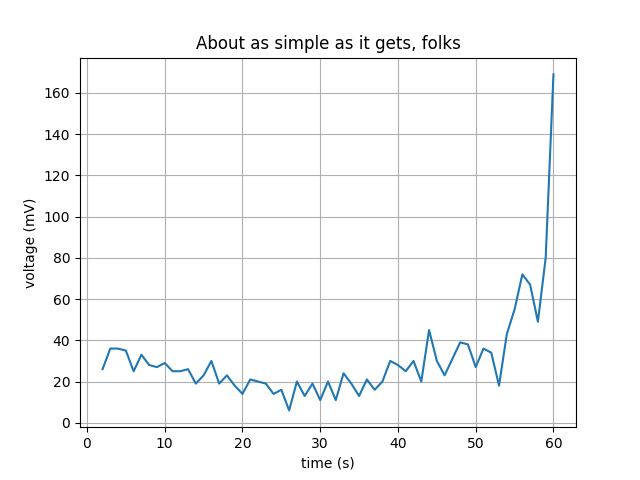
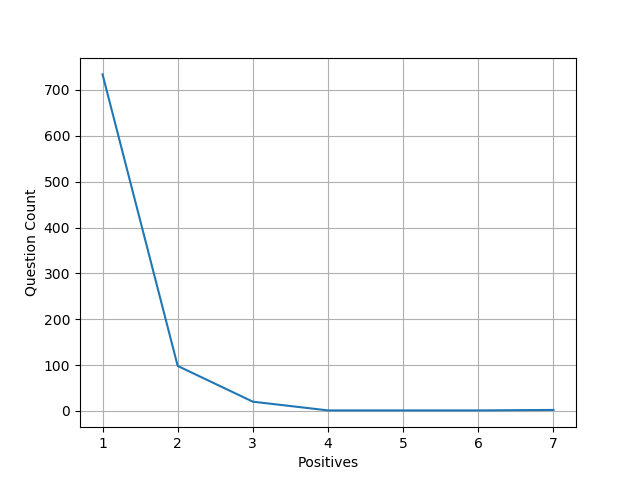
ver3

diff --git a/src/SentenceMatchDecoder.py b/src/SentenceMatchDecoder.py
@@ -203,6 +203,32 @@ def show_weights(dataStream, valid_graph, sess, outpath=None,
 if __name__ == '__main__':
 
     epoch = [1, 2, 3, 4, 5, 6, 7, 8, 9, 10]
+
+    pos_trec = [352.0, 191.0, 130.0, 95.0, 60.0, 45.0, 32.0, 32.0, 33.0, 18.0, 20.0, 23.0, 13.0, 15.0, 10.0, 13.0, 4.0, 10.0, 9.0,
+     4.0, 6.0, 3.0, 5.0, 2.0, 6.0, 1.0, 4.0, 0.0, 1.0, 0.0, 1.0, 0.0, 3.0, 3.0, 2.0, 3.0, 1.0, 2.0, 0.0, 3.0, 1.0, 1.0,
+     1.0, 0.0, 0.0, 0.0, 0.0, 1.0, 0.0, 0.0, 1.0]
+
+    pos_wiki = [734.0, 98.0, 20.0, 1.0, 1.0, 1.0, 2.0]
+
+    map_listpl = [4759762.387, 4751877.19, 4749028.117, 4742046.493, 4736566.713, 4731218.37, 4730733.15, 4725699.15, 4768785.58, 4567046.867]
+    map_listmle = [4754315.949, 4766392.034, 4697314.583, 4730979.343, 4691711.086, 4668025.715, 4680640.321, 4652065.742, 4652879.819, 4533239.929]
+
+    # epoch = []
+    # for i in range (len(pos_trec)):
+    #     epoch.append(i + 1)
+    # while len(pos_wiki) < len(pos_trec):
+    #     pos_wiki.append(0)
+    # plt.plot (epoch, pos_trec, label = 'QASent', marker = None, color = 'r', linestyle=None)
+    # plt.plot (epoch, pos_wiki, label = 'WikiQA', marker = None, color = 'b', linestyle='-.')
+    #
+    # plt.xlabel('Positive Answers Count')
+    # plt.ylabel('Question Count')
+    # plt.legend()
+    # plt.show()
+
+
+    #TREC:
+
     # map_listnet =[0.730, 0.740, 0.780, 0.784, 0.797, 0.802, 0.818, 0.812, 0.821, 0.819]
     # map_listmle =[0.704, 0.721, 0.757, 0.664, 0.633, 0.660, 0.622, 0.648, 0.616, 0.630]
     # map_zero = [0.740, 0.751, 0.792, 0.795, 0.801, 0.817, 0.824, 0.842, 0.855, 0.840]
@@ -225,17 +251,28 @@ if __name__ == '__main__':
     # map_listmle = [0.668, 0.682, 0.681, 0.69, 0.657, 0.619, 0.617, 0.614, 0.584, 0.587]
     #
     #
-    # plt.plot (epoch, map_lambmle, label = 'LambMLE', marker = 's', color = 'r', linestyle='-')
-    # plt.plot (epoch, map_zero, label = 'ZeroListNet', marker = 's', color = 'b', linestyle='-')
-    # plt.plot (epoch, map_listnet, label = 'ListNet', marker = 's', color = 'g', linestyle='-')
-    # plt.plot (epoch, map_pointwise, label = 'Pointwise', marker = 's', color = 'p', linestyle='-')
-    # plt.plot (epoch, map_listpl, label = 'ListPL', marker = 's', color = 'm', linestyle='-')
-    # plt.plot (epoch, map_listmle, label = 'ListMLE', marker = 's', color = 'y', linestyle='-')
+
+    #WIKI:
+    map_lambmle = [0.73, 0.794, 0.856, 0.907, 0.945, 0.963, 0.965, 0.979, 0.985, 0.986]
+                  #[0.729, 0.784, 0.851, 0.905, 0.949, 0.964, 0.966, 0.98, 0.988, 0.986]
+    map_zero = [0.720, 0.786, 0.855, 0.899, 0.932, 0.951, 0.967, 0.973, 0.981, 0.982]
+               #[0.735, 0.808, 0.863, 0.916, 0.942, 0.954, 0.974, 0.978, 0.984, 0.98]
+    map_listnet = [0.705, 0.756, 0.823, 0.878, 0.91, 0.936, 0.952, 0.966, 0.968, 0.978]
+    map_pointwise = [0.671, 0.715, 0.762, 0.813, 0.837, 0.866, 0.895, 0.921, 0.935, 0.944]
+    map_listpl = [0.587, 0.604, 0.62, 0.642, 0.673, 0.692, 0.699, 0.712, 0.728, 0.754]
+    map_listmle = [0.625, 0.63, 0.664, 0.651, 0.677, 0.681, 0.663, 0.687, 0.668, 0.698]
+
+    plt.plot (epoch, map_lambmle, label = 'LambMLE', marker = 's', color = 'r', linestyle='-')
+    plt.plot (epoch, map_zero, label = 'ZeroListNet', marker = 's', color = 'b', linestyle='-')
+    plt.plot (epoch, map_listnet, label = 'ListNet', marker = 's', color = 'g', linestyle='-')
+    #plt.plot (epoch, map_pointwise, label = 'Pointwise', marker = 's', color = 'p', linestyle='-')
+    plt.plot (epoch, map_listpl, label = 'ListPL', marker = 's', color = 'm', linestyle='-')
+    plt.plot (epoch, map_listmle, label = 'ListMLE', marker = 's', color = 'y', linestyle='-')
     #
-    # plt.xlabel('epoch')
-    # plt.ylabel('MAP')
-    # plt.legend()
-    # plt.show()
+    plt.xlabel('epoch')
+    plt.ylabel('MAP')
+    plt.legend()
+    plt.show()
 
     parser = argparse.ArgumentParser()
     #parser.add_argument('--model_prefix', type=str, required=True, help='Prefix to the models.')
@@ -312,9 +349,17 @@ if __name__ == '__main__':
     #print('char_vocab: {}'.format(char_vocab.word_vecs.shape))
 
     print('Build SentenceMatchDataStream ... ')
+
+    devDataStream = SentenceMatchTrainer.SentenceMatchDataStream("../dev.txt", word_vocab=word_vocab, char_vocab=char_vocab,
+                                                  POS_vocab=POS_vocab, NER_vocab=NER_vocab, label_vocab=label_vocab,
+                                                  batch_size=10, isShuffle=False, isLoop=True, isSort=True,
+                                                  max_char_per_word=20, max_sent_length=100,
+                                                  is_as=True, is_word_overlap=False,
+                                                  is_lemma_overlap= False)
+
     testDataStream = SentenceMatchTrainer.SentenceMatchDataStream(in_path, word_vocab=word_vocab, char_vocab=char_vocab,
                                                   POS_vocab=POS_vocab, NER_vocab=NER_vocab, label_vocab=label_vocab,
-                                                  batch_size=1, isShuffle=False, isLoop=True, isSort=True,
+                                                  batch_size=10, isShuffle=False, isLoop=True, isSort=True,
                                                   max_char_per_word=20, max_sent_length=100,
                                                   is_as=True, is_word_overlap=False,
                                                   is_lemma_overlap= False)
@@ -391,8 +436,37 @@ if __name__ == '__main__':
 
 
 
-        show_weights(testDataStream, valid_graph, sess, outpath='', label_vocab=label_vocab,mode='',
-                                                 char_vocab=char_vocab, POS_vocab=POS_vocab, NER_vocab=NER_vocab
-                     ,show_attention=True)
+        # show_weights(testDataStream, valid_graph, sess, outpath='', label_vocab=label_vocab,mode='',
+        #                                          char_vocab=char_vocab, POS_vocab=POS_vocab, NER_vocab=NER_vocab
+        #              ,show_attention=True)
 
+        #95
+        for i in range (95, 96):
+            char_vocab = Vocab(path_prefix + ".char_vocab", fileformat='txt2')
+            devDataStream = SentenceMatchTrainer.SentenceMatchDataStream("../dev.txt", word_vocab=word_vocab,
+                                                                         char_vocab=char_vocab,
+                                                                         POS_vocab=POS_vocab, NER_vocab=NER_vocab,
+                                                                         label_vocab=label_vocab,
+                                                                         batch_size=i, isShuffle=False, isLoop=True,
+                                                                         isSort=True,
+                                                                         max_char_per_word=20, max_sent_length=100,
+                                                                         is_as=True, is_word_overlap=False,
+                                                                         is_lemma_overlap=False)
 
+            testDataStream = SentenceMatchTrainer.SentenceMatchDataStream(in_path, word_vocab=word_vocab,
+                                                                          char_vocab=char_vocab,
+                                                                          POS_vocab=POS_vocab, NER_vocab=NER_vocab,
+                                                                          label_vocab=label_vocab,
+                                                                          batch_size=i, isShuffle=False, isLoop=True,
+                                                                          isSort=True,
+                                                                          max_char_per_word=20, max_sent_length=100,
+                                                                          is_as=True, is_word_overlap=False,
+                                                                          is_lemma_overlap=False)
+            char_vocab = None
+            my_map, my_mrr = SentenceMatchTrainer.evaluate(devDataStream, valid_graph, sess, char_vocab=char_vocab,
+                              POS_vocab=POS_vocab, NER_vocab=NER_vocab, label_vocab=label_vocab)
+            print ("*****************************************")
+            print (my_map, my_mrr)
+            my_map, my_mrr = SentenceMatchTrainer.evaluate(testDataStream, valid_graph, sess, char_vocab=char_vocab,
+                              POS_vocab=POS_vocab, NER_vocab=NER_vocab, label_vocab=label_vocab)
+            print (my_map, my_mrr)

diff --git a/src/SentenceMatchTrainer.py b/src/SentenceMatchTrainer.py
@@ -386,7 +386,6 @@ def Generate_random_initialization(cnf):
         FLAGS.with_highway = True
     else:
         return False
-
     # if cnf <= 3:
     #     FLAGS.pos_avg = True
     #     FLAGS.prediction_mode = 'list_wise'
@@ -464,7 +463,8 @@ def Get_Next_box_size (index):
     #az inja be bad listnet dorost shode
     #list = [100, 100, 100] #loss1- [point-wise, list_wise, list_wise] sadegh
     #az inja be bad sampling = False beshe
-    list = [100, 100, 100, 100, 100]  #glove5- [(glove5-0)pos_avg = True, (glove51)kl, pos_avg=True] sampling = False wiki dbrg
+    list = [100, 100, 100, 100, 100]
+    #glove5- [(glove5-0)pos_avg = True, (glove51)kl, pos_avg=True] sampling = False wiki dbrg
                             #mle1- [poset, list_net(0-1), real_list_net, margine=1 neg, margin=1 pos] wiki [s,s,s,s,d]
                             #mle2- [poset, list_net(0-1), real_list_net] [s,s,d] trec
 				#mle3- [poset, list_net(0-1) [d,d]
@@ -480,7 +480,7 @@ def Get_Next_box_size (index):
                 #fabl2- [just word embeding]
                 #fabl3- [no final highway]
                 #fabl4- [no mathching, sub, lstm] store_best = False for wiki and trec
-                # epoch5- [pointwise,,,listmle] trec wiki(20 runs)	#epoch55-[pointwise] wiki (100 runs)
+                #epoch5- [pointwise,,,listmle] trec wiki(20 runs)	#epoch55-[pointwise] wiki (100 runs)
 
                 #train1- [poset, zero, listnet, pointwise] 1-3,4-6,7-9,10-12 wiki trec
                 #train2- [mle, pl] wiki trec
@@ -489,7 +489,7 @@ def Get_Next_box_size (index):
                 # tt1- [poset, zero, listnet] 1-5, 6-10, 11-15
                 #my_abl1 [cnn, bilinear, lstm]
                 # tt2- [poset, zero, listnet] 1-5, 6-10, 11-15
-                # tt3- [] 1-3, 4-6, ...
+                # tt3- [] 1-3, 4-6, ... poset, zero , net, point, mle, pl
     FLAGS.flag_shuffle = True
 
     if  (index > FLAGS.end_batch):
@@ -498,8 +498,6 @@ def Get_Next_box_size (index):
     FLAGS.sample_percent = list [index]
     FLAGS.margin = 0
 
-
-
     FLAGS.test_train = False
 
     if index == 0:
@@ -507,9 +505,10 @@ def Get_Next_box_size (index):
         # FLAGS.pos_avg = True
         # FLAGS.prediction_mode = 'point_wise'
         FLAGS.word_vec_path = "../data/glove/my_glove.840B.300d.txt"
-        FLAGS.pos_avg = True
-        FLAGS.prediction_mode = 'list_wise'
-        FLAGS.new_list_wise = True
+        #FLAGS.pos_avg = True
+        FLAGS.prediction_mode = 'list_mle'
+        FLAGS.flag_shuffle = False
+        #FLAGS.new_list_wise = True
         #FLAGS.topk = 30
     if index == 1:
         FLAGS.word_vec_path = "../data/glove/my_glove.840B.300d.txt"
@@ -926,11 +925,8 @@ def main(_):
 
 
 if __name__ == '__main__':
-
-
-
     parser = argparse.ArgumentParser()
-    parser.add_argument('--is_trec',default=True, help='is trec or wiki?')
+    parser.add_argument('--is_trec',default=False, help='is trec or wiki?')
     FLAGS, unparsed = parser.parse_known_args()
     is_trec = FLAGS.is_trec
     if is_trec == 'True' or is_trec == True:

diff --git a/src/SentenceMatchDataStream.py b/src/SentenceMatchDataStream.py
@@ -256,10 +256,14 @@ def wikiQaGenerate(filename, label_vocab, word_vocab, char_vocab, max_sent_lengt
     q_type = {}
     q_type_pos = {}
     q_type_len = {}
+    good_len_list = []
+    good_len_max = 0
     for item in question_dic.values():
-
         good_answer = [item["answer"][i] for i in range(len(item["question"])) if item["label"][i] == 1]
         good_length = len(good_answer)
+        good_len_list.append(good_length)
+        if good_length > good_len_max:
+            good_len_max = good_length
         first_word = item ["question"][0].split()[0]
         q_type.setdefault(first_word,0)
         q_type_pos.setdefault(first_word, 0)
@@ -308,17 +312,23 @@ def wikiQaGenerate(filename, label_vocab, word_vocab, char_vocab, max_sent_lengt
         batches = make_batches_as(instances, batch_size, max_answer_size, is_training, equal_box_per_batch)
     else:
         batches = make_batches(pairs_count,batch_size)
-    show_plot = False
+    # show_plot = True
     # if show_plot == True:
-    #     sum_len = np.zeros((max_answer_size-1))
-    #     for x in instances:
-    #         sum_len [len (x[1])-2] += 1
-    #     x = np.arange(2, max_answer_size+1)
+    #     import matplotlib
+    #     import matplotlib.pyplot as plt
+    #     #sum_len = np.zeros((max_answer_size-1))
+    #     sum_len = np.zeros((good_len_max))
+    #     for x in good_len_list:
+    #         #sum_len [len (x[1])-2] += 1
+    #         sum_len[x - 1] += 1
+    #     #x = np.arange(2, max_answer_size+1)
+    #     print (list(sum_len))
+    #     x = np.arange(1, good_len_max + 1)
     #     fig, ax = plt.subplots()
     #     ax.plot(x, sum_len)
     #
-    #     ax.set(xlabel='time (s)', ylabel='voltage (mV)',
-    #            title='About as simple as it gets, folks')
+    #     ax.set(xlabel='Positives', ylabel='Question Count')
+    #           # ,title='About as simple as it gets, folks')
     #     ax.grid()
     #
     #     fig.savefig("test.png")

diff --git a/src/SentenceMatchModelGraph.py b/src/SentenceMatchModelGraph.py
@@ -383,11 +383,14 @@ class SentenceMatchModelGraph(object):
                             #logits = tf.expand_dims(logits, 0)
                             neg_exp = tf.multiply(neg_mask, tf.exp(logits)) # [a, a] [logits : [1, a]]
                             pos_exp = tf.exp(logits) #[1, a]
-                            neg_exp_sum = tf.reduce_sum(neg_exp, 1, keep_dims=True) #[1,a]
-                            fi = tf.log(1 + tf.divide(neg_exp_sum, pos_exp)) #[1,a]
+                            pos_exp = tf.reshape(pos_exp, [-1]) #[a]
+                            neg_exp_sum = tf.reduce_sum(neg_exp, 1) #[1,a] #[a, 1] #a
+                            print (neg_exp_sum)
+                            fi = tf.log(1 + tf.divide(neg_exp_sum, pos_exp)) #a
+                            print (fi)
 
                             #fi = tf.multiply(fi, pos_mask) #[a, a]
-                            fi = tf.multiply(fi, self.mask_topk[i]) #[1,a]
+                            #fi = tf.multiply(fi, self.mask_topk[i]) #[1,a]
                             fi = tf.reduce_sum(fi)
                             #loss_list.append(tf.divide(fi, tf.reduce_sum(self.mask[i])))
                             loss_list.append(fi)
